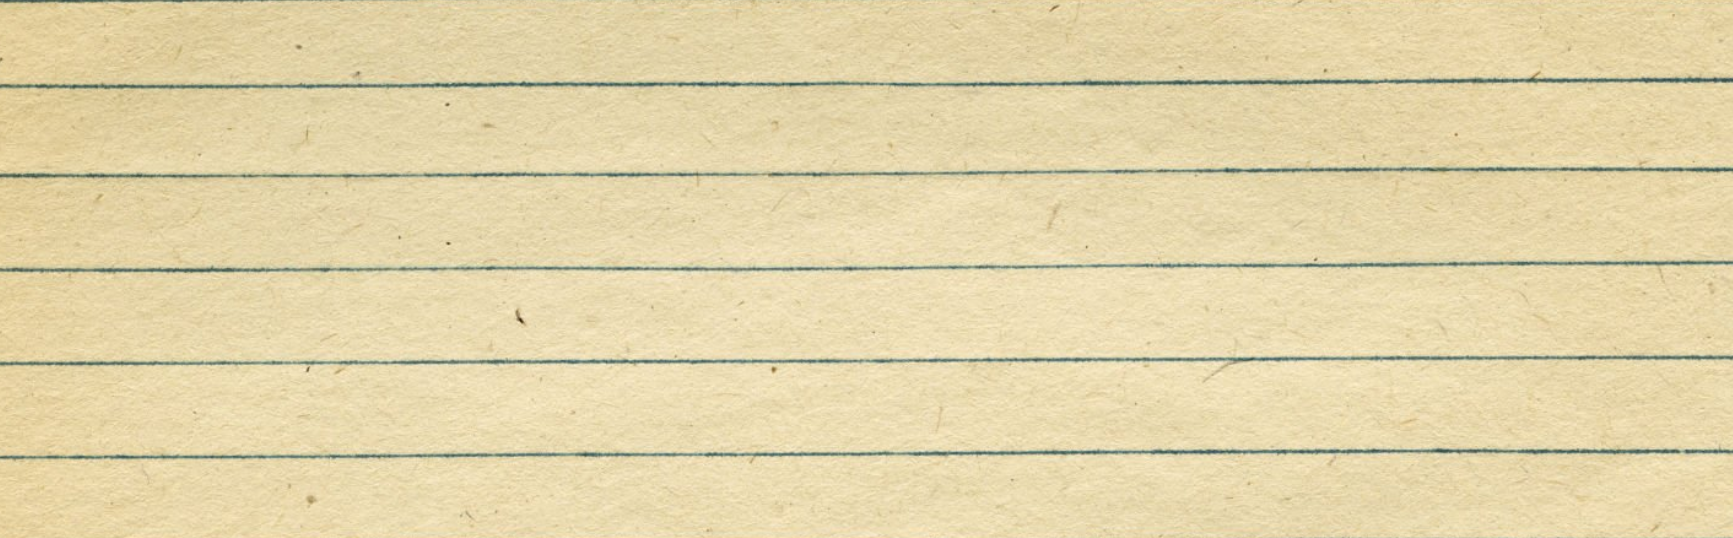
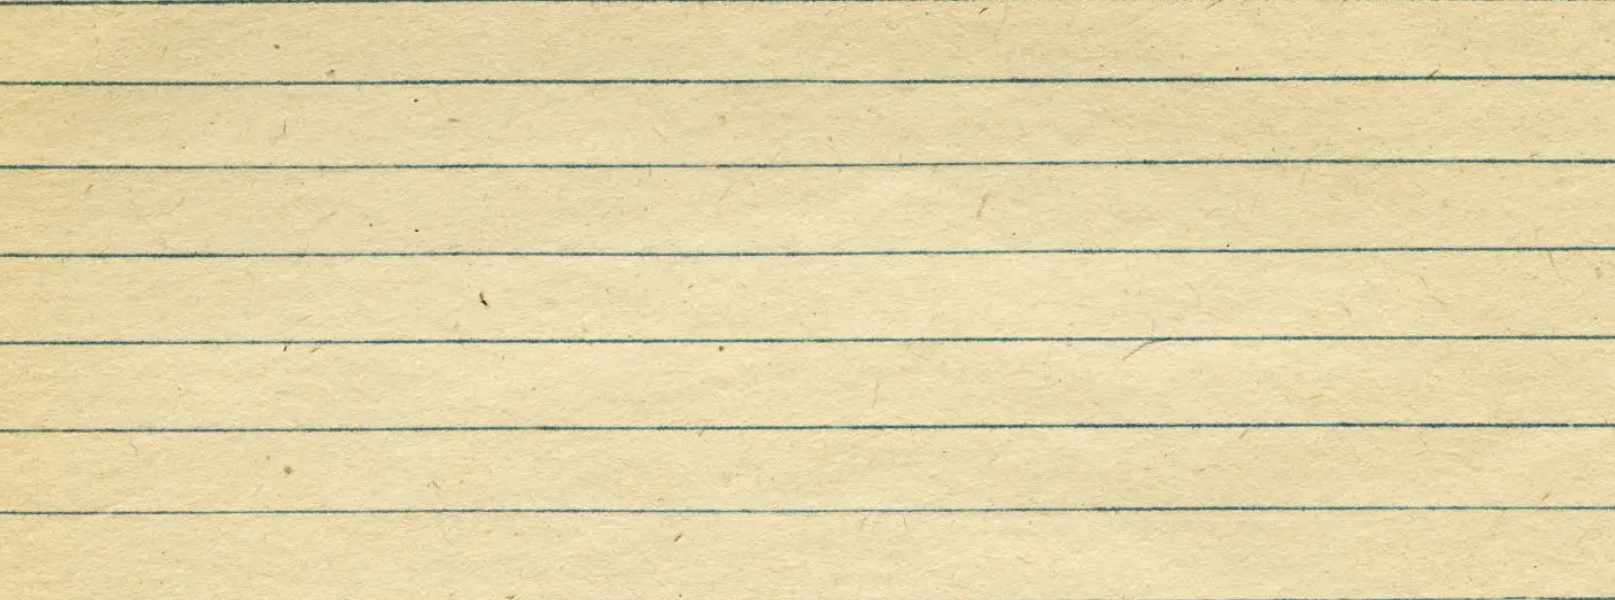
final

diff --git a/index.html b/index.html
@@ -7,10 +7,12 @@
     <link rel="stylesheet" href="style.css">
 </head>
 <body>
-    <div class="paper p6"><img src="./IMG-20240727-WA0010.jpg" height="200px" width="150px" alt=""><p style="font-size: 25px;">Thank You Jaaduu!! ❤✨✨<br>Thank You for being the greenest Flag ever!!💚<br>Thank You for being so understanding Always!!❤<br>I LOVE YOU my sweet girll ❤</p></div>
+    <div class="paper p6"><img src="./IMG-20240727-WA0010.jpg" height="200px" width="150px" alt="">
+        <p style="font-size: 25px;">Thank You Jaaduu!! ❤✨✨
+            <br>Thank You for being the greenest Flag ever!!💚<br>Thank You for being so understanding Always!!❤<br>I LOVE YOU my sweet girll ❤ 🫂</p></div>
     <div class="paper p5"><img src="./IMG-20240727-WA0007.jpg" height="250px" width="150px" alt="" style="padding-bottom: 20px;">
         This is also an appreciation post for you!! From not knowing what to do in 1st Semester to completely changing your Mindset in the second Semester!! 
-        I am rly rly proud of you my cutuuuu!!.💓💓 And falling in love with you all over again!❤ (2/3)</div>
+        I am rly rly proud of you my cutuuuu!!.💓💓 And falling in love with you all over again!❤ really proud of you and want to be by your side in this success journey with you all the way!! 🫶🫂 (2/3)</div>
     <div class="paper p4"><img src="./IMG-20240727-WA0009.jpg" height="250px" width="150px" alt="">
         <p style="font-size:25px">I want to tell you that I Loveee YOU a lott Jaaduu!! and want to wish YOU....ALL THE BEST💯 for your upcoming Semester.
          I will be there for you at every turn and motivate you... 

diff --git a/style.css b/style.css
@@ -8,7 +8,7 @@ body {
     align-items: center;
     justify-content: center;
     background-size: cover;
-    background-image: url("backgroundimg.png");
+    background-image: url("backgroundimg\ \(2\).png");
     background-position: center ;
 }
 
